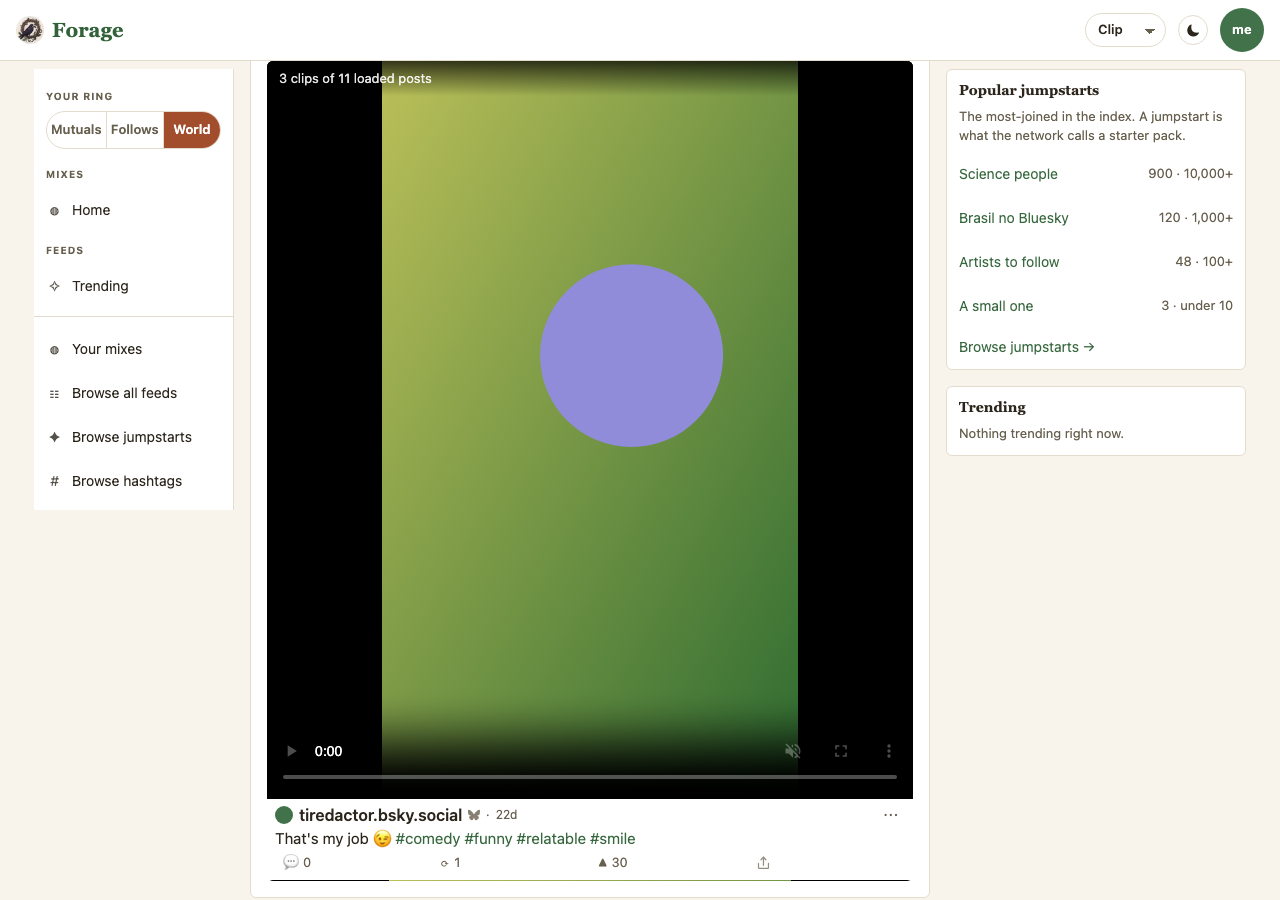
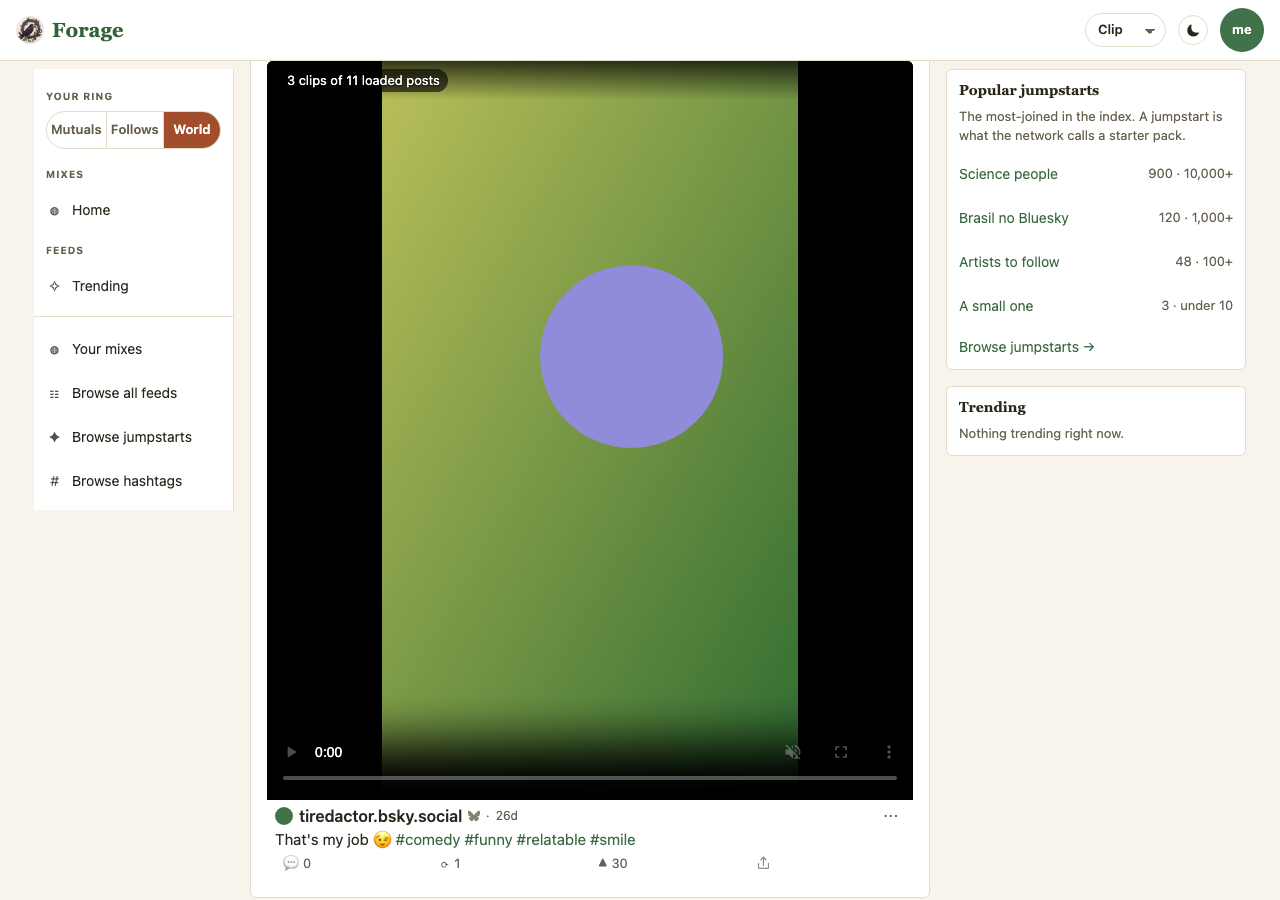
clips: mock v6 — the two device findings captured; the TODO rows closed, the plan, changelog and device README record the Samsung run
Every Proposed frame re-captured at d311652 (the chip on every reel frame); the Samsung
screencap of the fixed count line over the bright frame added to the device set with its
README row. TODO.md loses the two rows; the plan's Review Log carries the run and the
measured loop; CHANGELOG says what a reader gets.

Gate, named and run on this tree: npm test 1027/1027 · npm run conformance 86/86 ·
npm run workflows 49 found, 0 failed · npm run reference-gate 2/2.

Claude-Session: clips-followups

Changed region(s): [[0.2188, 0.9022, 0.4375, 0.9644], [0.2188, 0.0622, 0.3438, 0.1244], [0.4688, 0.9333, 0.5, 0.9644]]

diff --git a/plans/mocks/clips.html b/plans/mocks/clips.html
@@ -3,10 +3,10 @@
 <head>
 <meta charset="utf-8">
 <meta name="viewport" content="width=device-width,initial-scale=1">
-<title>Forage Clips v5</title>
-<meta name="mock-version" content="5">
+<title>Forage Clips v6</title>
+<meta name="mock-version" content="6">
 <meta name="mock-baseline" content="forage@c3a4abe">
-<meta name="mock-proposal" content="forage@1d6ff4f">
+<meta name="mock-proposal" content="forage@d311652">
 <style>
 :root{--page-bg:#EFE9DE;--page-card:#F8F4EC;--page-ink:#2B251C;--page-muted:#6B6252;--page-line:#DED5C4;--page-accent:#33623A;
   --f-body:system-ui,-apple-system,"Segoe UI",Roboto,sans-serif;--f-display:ui-serif,Georgia,"Times New Roman",serif}
@@ -44,10 +44,11 @@ code{font-size:.92em}
 <div class="wrap">
 
 <header style="display:flex;flex-direction:column;gap:10px">
-  <span class="eyebrow">Mock · v5 · 2026-09-21 · plan 2026-09-14-plan-clips</span>
+  <span class="eyebrow">Mock · v6 · 2026-09-25 · plan 2026-09-14-plan-clips</span>
   <h1>View modes — Forum, Clip, Gram: a dropdown in the top bar, the reel, and the people behind it</h1>
   <p class="sub">Five proposals, twenty-two frames, <b>every one a capture of the engine</b> (MOCKS.md P1). <b>Current</b> is
-  <code>main</code> at <code>c3a4abe</code>; <b>Proposed</b> is <code>claude/video-view</code> at <code>1d6ff4f</code> — v5 moves the
+  <code>main</code> at <code>c3a4abe</code>; <b>Proposed</b> is <code>claude/clips-followups</code> at <code>d311652</code> — v6 fixes the two device findings (the count line on a chip, the
+  clip looping); v5 moved the
   control: a <b>dropdown in the top bar</b> (D7, decided on v4), the reel's own exit gone with it. v4 built the whole scope: the
   people-scope reel (D1), autoplay (D3), the veil, GIFs and alt text in Gram (D9, D10). Both captured by <code>scripts/mock-snaps.mjs</code> against the same
   hermetic population, in the default skin, at 390×844 and 1280×900. The population (<code>e2e/harness/mock-reel.mjs</code>) is the
@@ -182,6 +183,9 @@ code{font-size:.92em}
       the language filter and the window sort — and narrows by <code>media.kind</code>. A frame is a row by another layout, never a
       row the forum would not have shown. No new write, no new host, no new lexicon; DL-041 in the ledger records that the memory
       sandbox has no reel yet because its posts carry no media.</li>
+    <li><b>The phones' two findings (2026-09-25), fixed in v6:</b> the count line sits on a dark chip with a text shadow, so it
+      reads over a bright frame; the active clip loops while on screen. Verified on the Samsung against the branch:
+      <code>snaps/clips/device/samsung.fol-clip-chip.png</code>, and a 17.4 s clip wrapping 16.3 s → 0.4 s through CDP.</li>
     <li><b>v5's capture caught one more:</b> with the dropdown in it, the phone's top bar wrapped to two rows (113px where the
       reel and the drawer assume 61). Fixed — at phone widths the wordmark keeps its emblem and loses its word, the gaps tighten,
       the dropdown narrows — measured 61px signed in at 320, 360 and 390, and pinned. A guest at 320 wraps on <code>main</code>
@@ -209,6 +213,8 @@ code{font-size:.92em}
 <section class="callout">
   <h3>Revisions</h3>
   <ul>
+    <li><b>v6 — 2026-09-25.</b> The two device findings fixed (the chip, the loop); every Proposed frame re-captured at
+      <code>d311652</code>; one more phone screencap.</li>
     <li><b>v5 — 2026-09-21.</b> D7 decided on v4: the control is a dropdown in the top bar; the pill under the ring and the reel's
       exit are gone. D11: a Default view setting, forum unless chosen; the dropdown's choice lasts the visit. Every Proposed frame re-captured at <code>1d6ff4f</code>; the top-bar route's Current re-captured too (it no
       longer opens the drawer).</li>

diff --git a/TODO.md b/TODO.md
@@ -12,16 +12,6 @@ Deferred work surfaced by `plans/2026-08-24-1-plan-behavior-scale-scaffolding.md
 
 ## Needs the owner
 
-- **The reel's count line over a bright frame.** The sticky bar's gradient
-  (`.reel-bar`, `rgba(0,0,0,.72)` → 0) is too light under white text when the frame behind it is
-  bright: on the Samsung, Home at Follows in Clip, "10 clips from 4 people you follow" sat over a
-  white phone-screenshot clip and was barely legible (`plans/mocks/snaps/clips/device/samsung.fol-clip.png`,
-  2026-09-25). A text shadow or a denser scrim; re-capture `view-clip-fol`. (plan
-  2026-09-14-plan-clips, the device look)
-- **An ended clip sits at its last frame.** In Clip mode a clip that reaches its end stays at
-  0:29/0:29 until the reader swipes (Pixel, 2026-09-25). Loop it, advance to the next frame, or
-  leave it — the plan scoped no auto-advance on purpose (no algorithm), so this is the owner's
-  call, not a defect. (plan 2026-09-14-plan-clips)
 - [x] **Phone feed: posts edge to edge, and rows that read as rows** — _shipped 2026-09-14_
   as board-cards Phase 8 / decision 11 (mock `plans/mocks/phone-feed-edge.html`, approved on
   v2 the same day; `e2e/phone-feed-edge.workflow.mjs` holds the frame's claims). Still owed

diff --git a/plans/2026-09-14-plan-clips.md b/plans/2026-09-14-plan-clips.md
@@ -529,6 +529,15 @@ than here.
 
 ## Review Log
 
+- 2026-09-25 — **the two device findings fixed** (owner: "fix both"). The count line stands
+  on a dark chip with a text shadow; the reel's active clip LOOPS (loop, not advance — the
+  reader moves the reel, nothing moves the reader; a row's clip still plays once). RED first
+  in the journey's people-scope section. Verified on the Samsung against the branch served
+  over `adb reverse` (the test account, real OAuth): the chip legible over the bright
+  screenshot-clip (`plans/mocks/snaps/clips/device/samsung.fol-clip-chip.png`), and a 17.4 s
+  clip wrapping from 16.3 s to 0.4 s, still playing, muted, never `ended`. Mock v6 re-captured
+  every Proposed frame. Rig traps (an expired authorization request, the 127.0.0.1 origin, a
+  preview server dying with the shell) kept in session memory.
 - 2026-09-25 — **the device look, both phones** (the owner: "phones are connected and
   available"; claims `testbed--samsung` / `testbed--pixel` filed and released). Driven over
   adb-forwarded CDP against **forage.fyi as deployed** (`f45f6a0`); screencaps in

diff --git a/plans/mocks/snaps/clips/device/README.md b/plans/mocks/snaps/clips/device/README.md
@@ -15,6 +15,7 @@ sha; these are the same build under a real network, a real account and a real th
 | `samsung.fol-clip` | Samsung | Home at Follows in Clip: the people-scope reel, "10 clips from 4 people you follow" |
 | `samsung.me-default` | Samsung | the account page: Default view and Play clips automatically |
 | `samsung.320` | Samsung, **emulated** 320 CSS px (CDP device metrics; the phone is 384) | the bar one row, 61px, signed in |
+| `samsung.fol-clip-chip` | Samsung (test account), **the clips-followups branch** served to the phone over `adb reverse` | Home at Follows in Clip after the fixes: the count line on its chip over the same bright screenshot-clip; the player looping (17.4 s clip, 16.3 s → 0.4 s measured through CDP) |
 | `pixel.clip1` | Pixel 9 Pro (the owner's own session, read-only) | the owner's Home in Clip, bluesky-dark skin: 11 clips of 133; the first clip played to its end, muted |
 | `pixel.drawer` · `pixel.gram` | Pixel | the drawer; Home in Gram, 40 picture posts of 127 |
 

diff --git a/CHANGELOG.md b/CHANGELOG.md
@@ -8,6 +8,12 @@ below are the landings of that month, and everything earlier is in `git log`.
 
 ## 2026-09
 
+- 2026-09-25 **Clip mode: the clip on screen loops, and the count line reads over any frame.**
+  A clip that reached its end used to sit at its last frame until you swiped; now it starts
+  again while it is the one on screen (nothing moves you to the next — that is your swipe).
+  And the line saying how many clips the reel holds, and from whom, sits on its own dark chip,
+  so it reads over a bright frame as well as a dark one. Both found on the phones on
+  2026-09-25 and checked there again. (plan 2026-09-14-plan-clips)
 - 2026-09-21 **View modes: Forum, Clip, Gram.** In the top bar, beside the skin toggle, there
   is a dropdown, *View*: **Forum** is the rows you have today; **Clip** shows the board you are
   on as its clips, one per screen; **Gram** shows its picture posts (and GIF cards) the same
